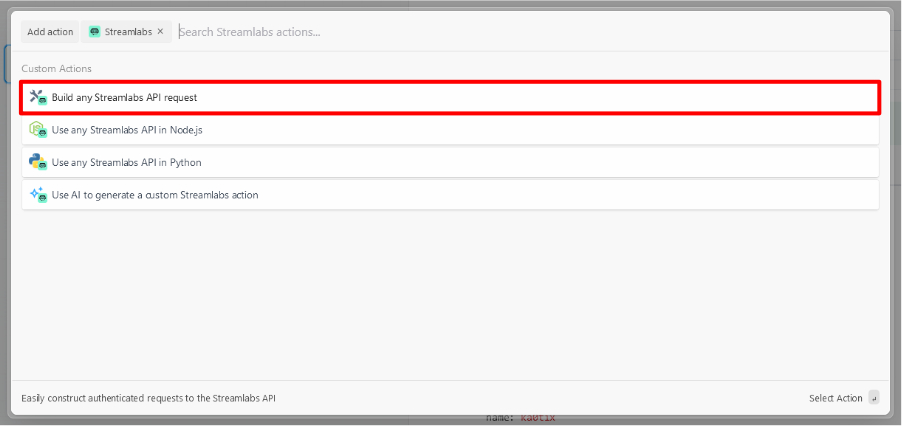
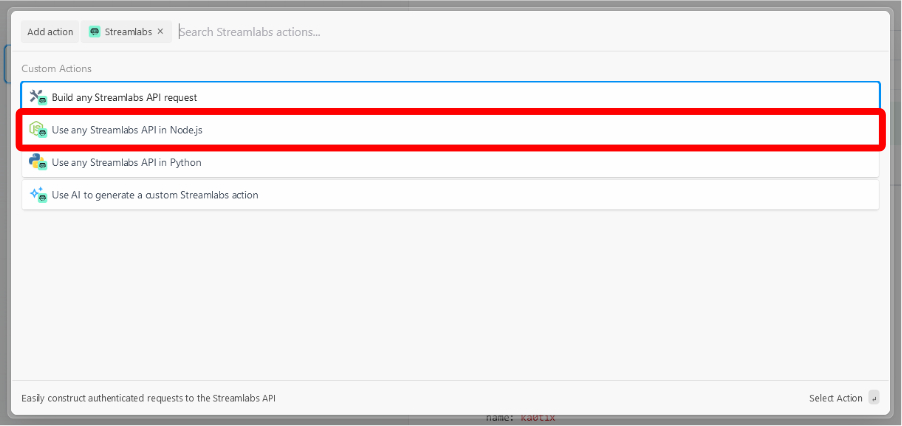
fix: streamlabs integration content

Changed region(s): [[0.0, 0.1831, 0.9933, 0.3662]]

diff --git a/content/webhooks/streamlabs-integration.md b/content/webhooks/streamlabs-integration.md
@@ -37,7 +37,7 @@ Im Folgenden wird gezeigt, wie man über verschiedene Plattformen unseren Webhoo
     ![image](/images/webhooks/streamlabs-integration/10_add-action.jpg)
 12. Gib hierzu in der Suche für Actions *Streamlabs* (1) ein, drücke die Eingabetaste und klicke anschließend auf den Button *Streamlabs* (2):
     ![image](/images/webhooks/streamlabs-integration/11_select-action-1.jpg)
-13. Danach klickst du auf den Button *Build any Streamlabs API request*:
+13. Danach klickst du auf den Button *Use any Streamlabs API in Node.js*:
     ![image](/images/webhooks/streamlabs-integration/12_select-action-2.jpg)
 14. Vergebe hier zunächst einen neuen Namen für die Action (bspw. `streamlabs_tip`). Klicke dazu einfach auf den Namen der Action (standardmäßig *streamlabs*) und gib dann einen neuen Namen ein:
     ![image](/images/webhooks/streamlabs-integration/13_configure-action-1.jpg)

diff --git a/content/webhooks/streamlabs-integration.en.md b/content/webhooks/streamlabs-integration.en.md
@@ -37,7 +37,7 @@ Below we'll show how to set up our webhook through different platforms.
     ![image](/images/webhooks/streamlabs-integration/10_add-action.jpg)
 12. Enter *Streamlabs* (1) in the actions search, press enter and then click the *Streamlabs* button (2):
     ![image](/images/webhooks/streamlabs-integration/11_select-action-1.jpg)
-13. Then click the *Build any Streamlabs API request* button:
+13. Then click the *Use any Streamlabs API in Node.js* button:
     ![image](/images/webhooks/streamlabs-integration/12_select-action-2.jpg)
 14. First assign a new name for the action (e.g. `streamlabs_tip`). Simply click on the action name (default is *streamlabs*) and enter a new name:
     ![image](/images/webhooks/streamlabs-integration/13_configure-action-1.jpg)
